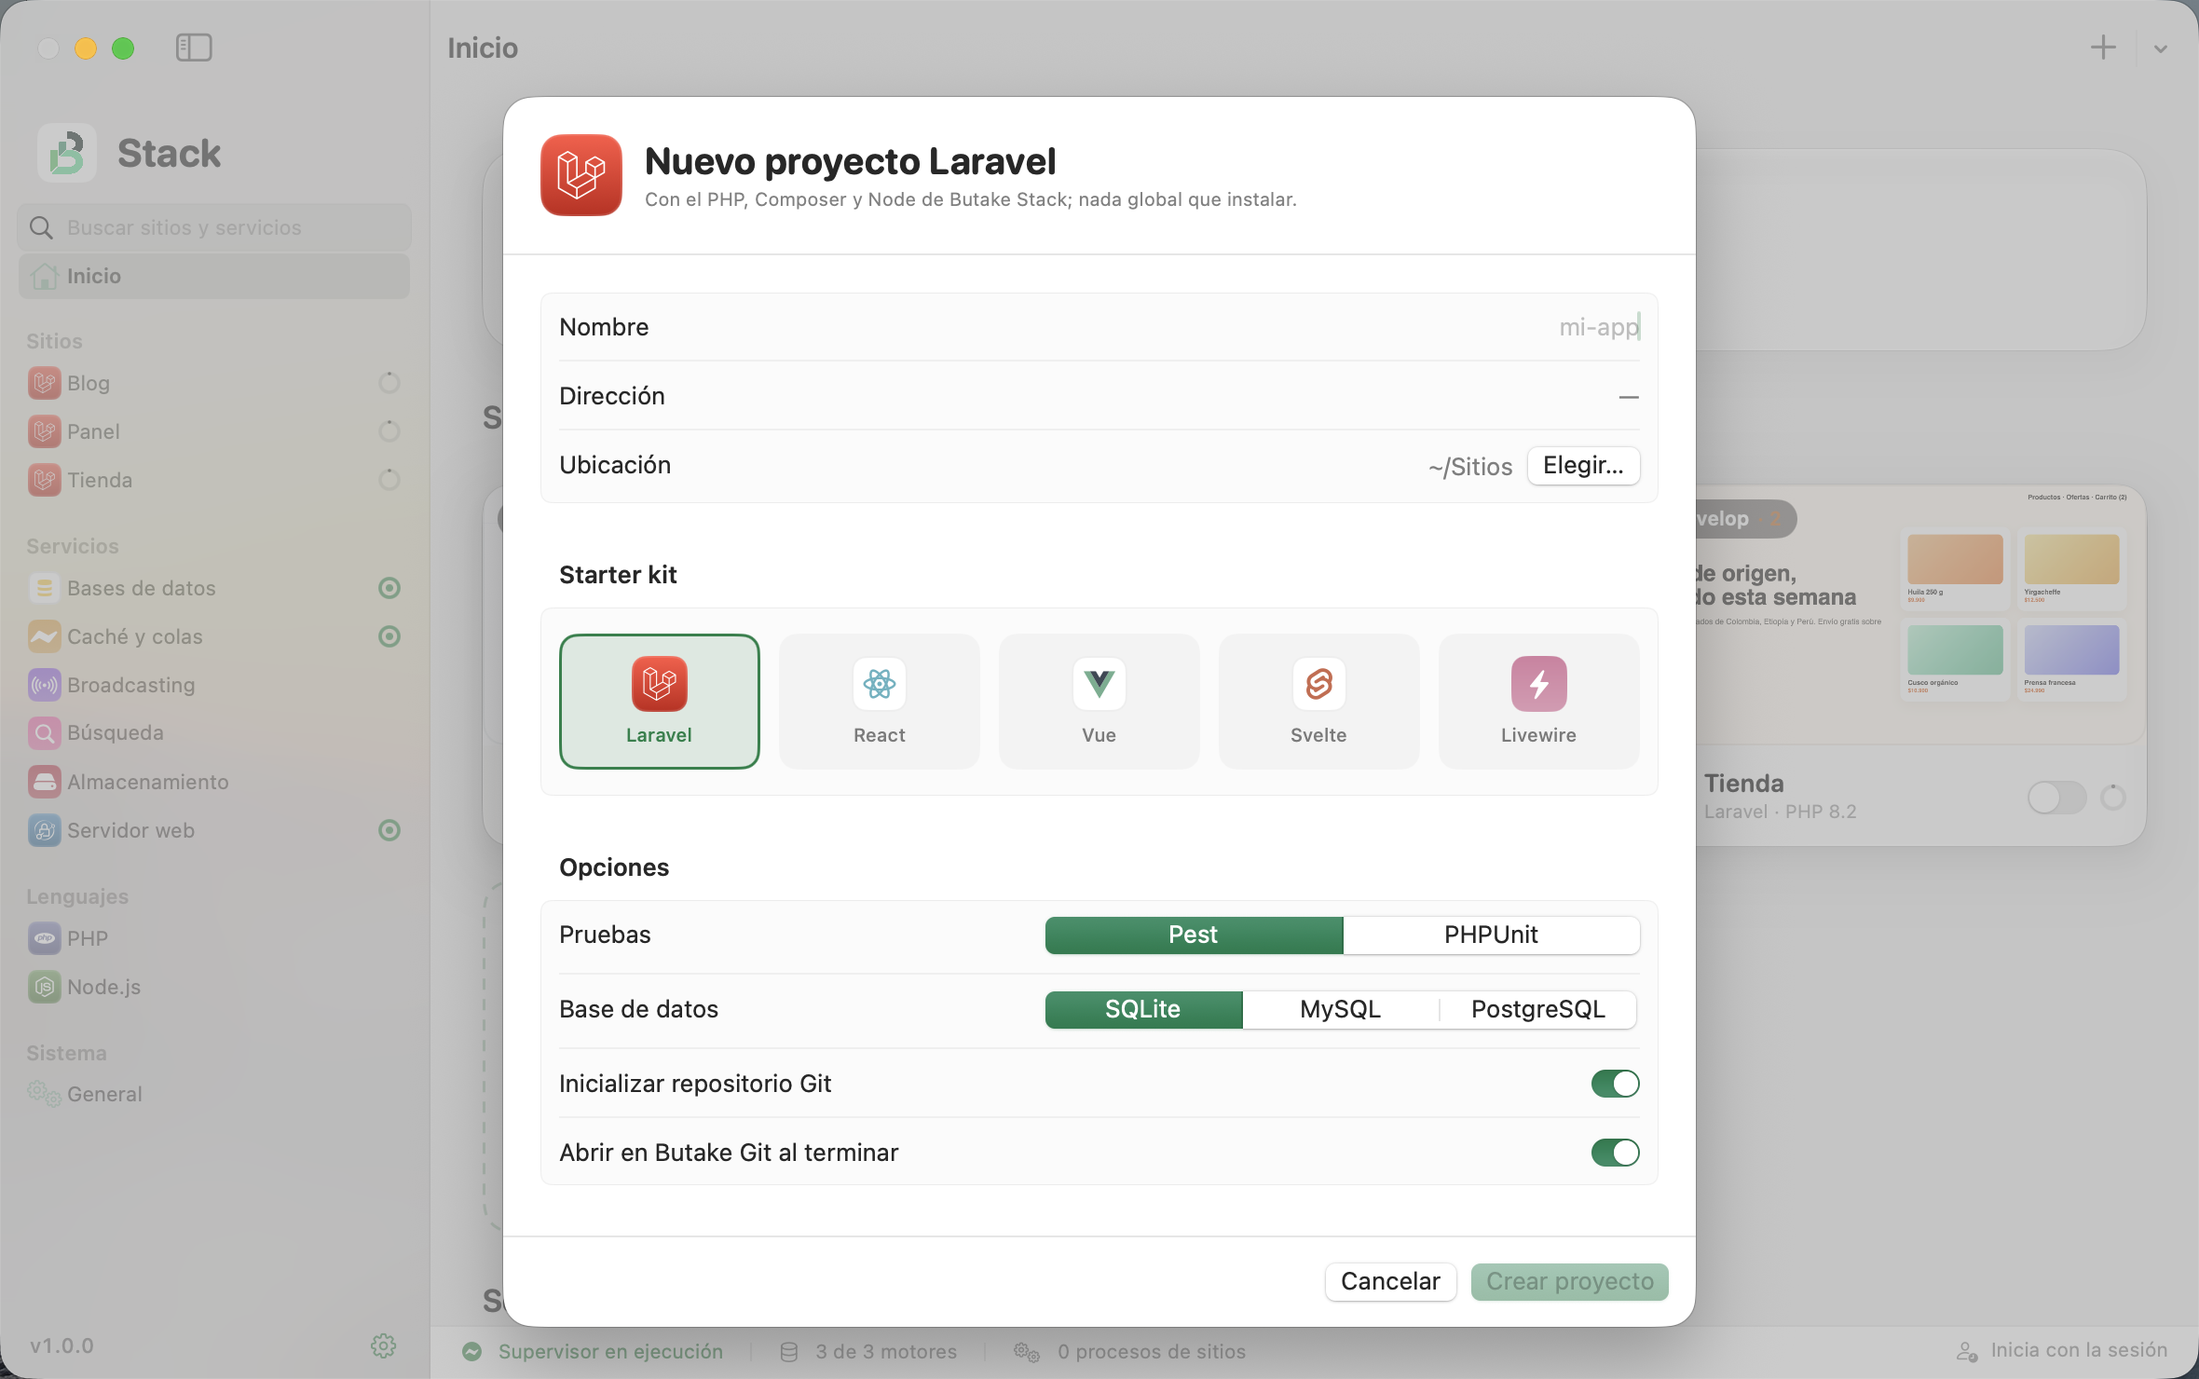
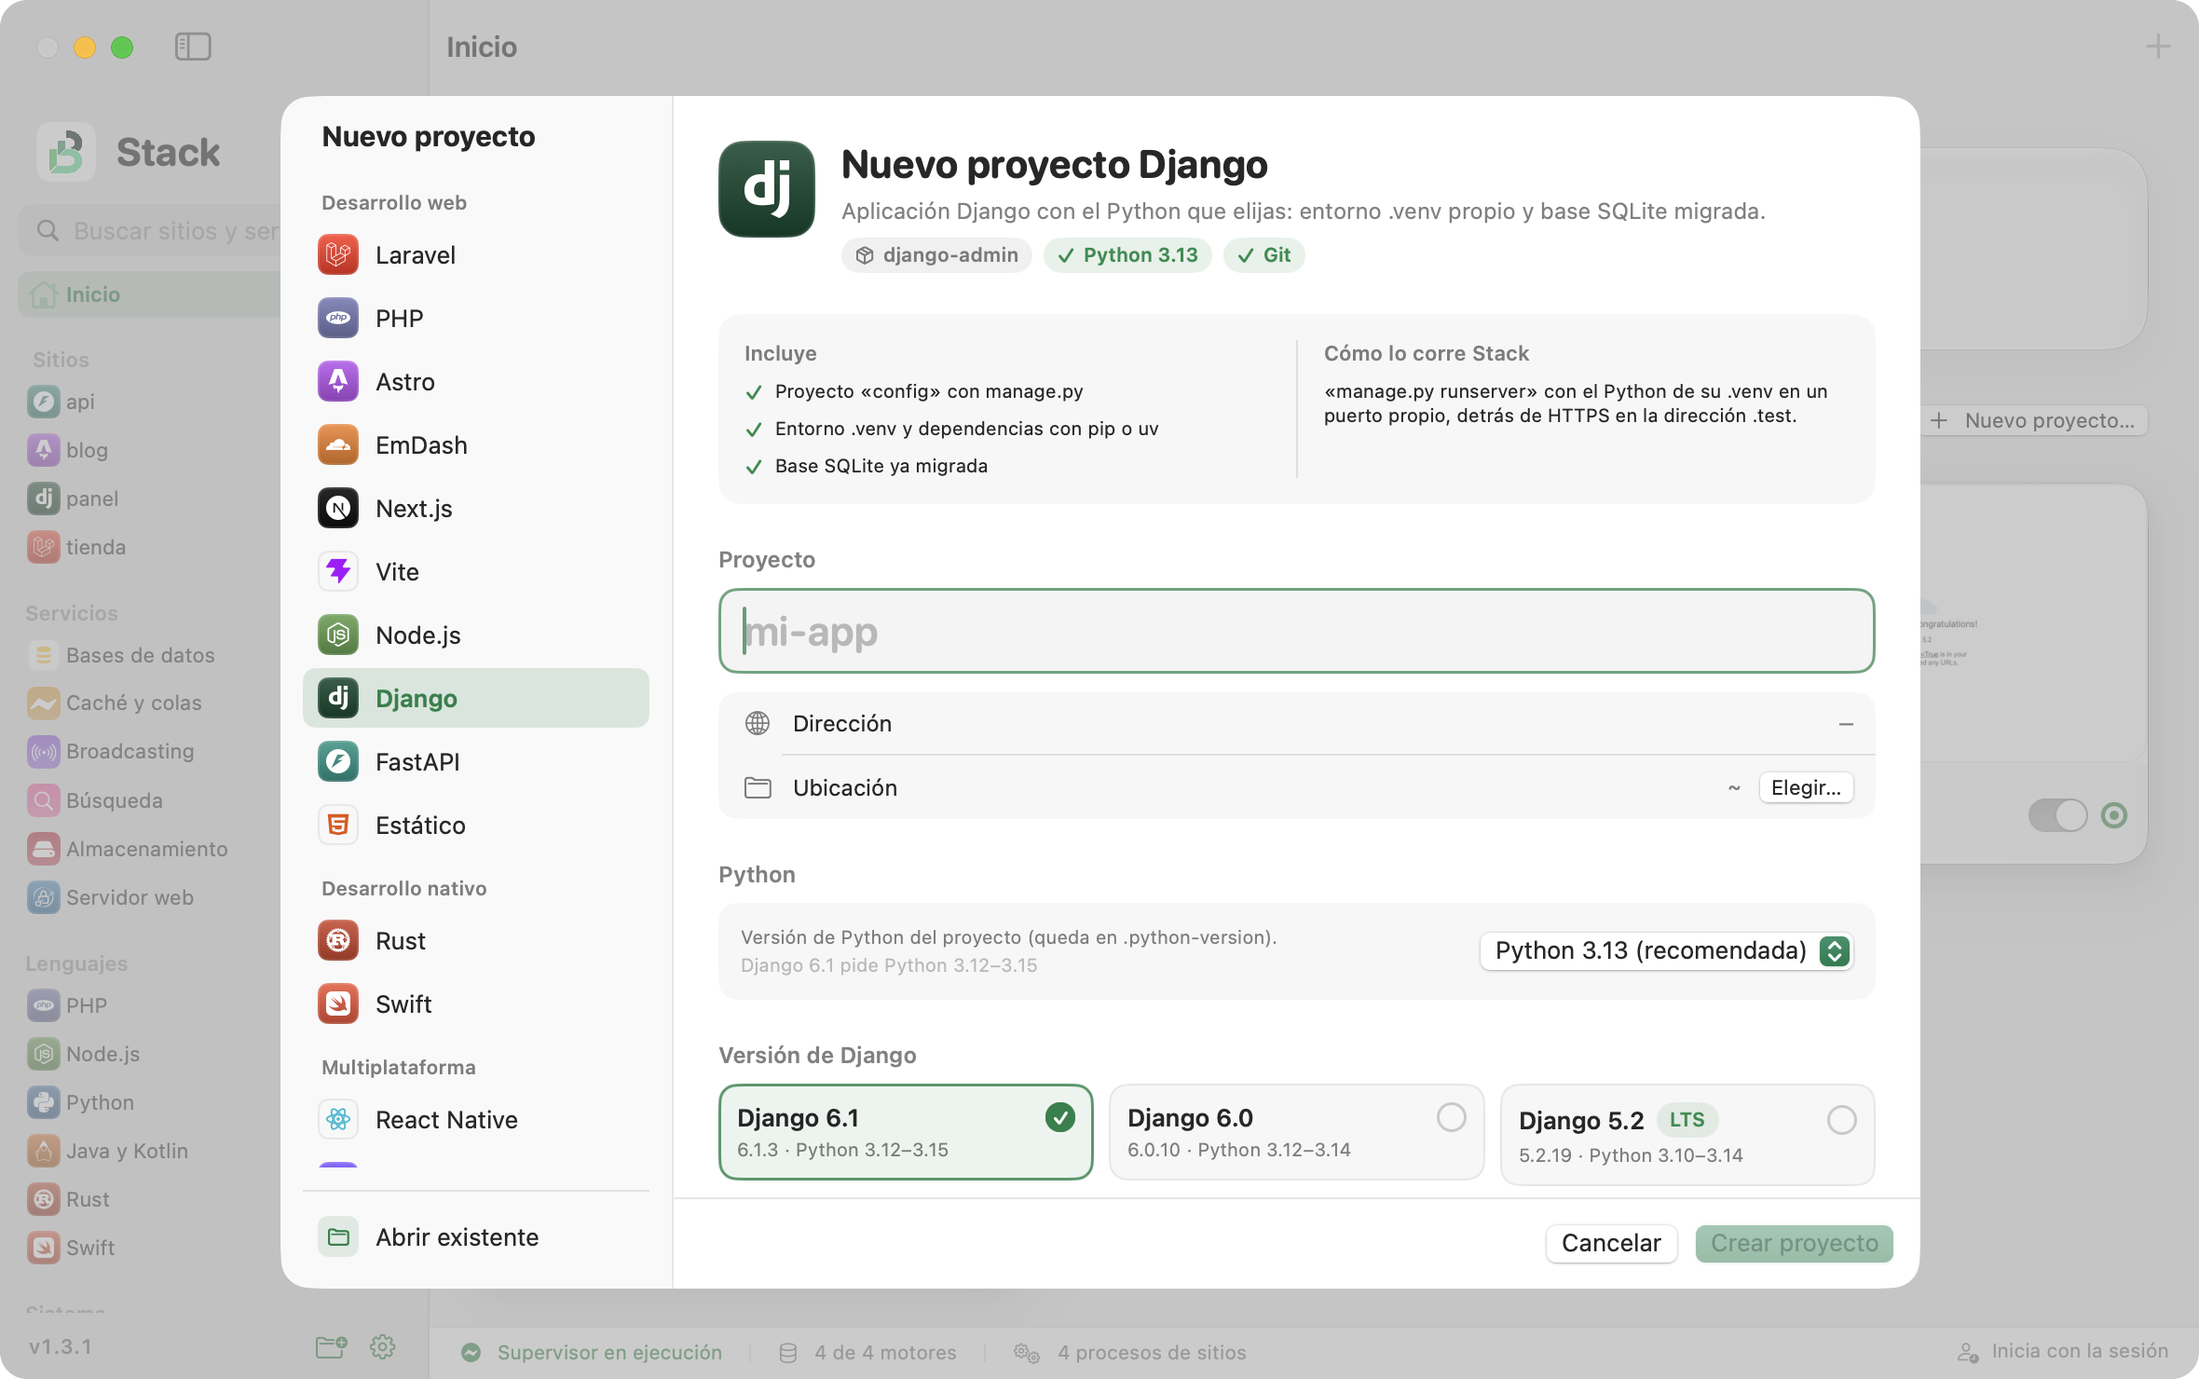
docs(sitio): página con la versión 1.3.1 y capturas nuevas
- Capturas en claro y oscuro de la 1.3.1: inicio, sitio, bases de datos, Python, servidor web, nuevo proyecto, Preparar y bienvenida.
- Textos de lenguajes por proyecto, asistente con versión del framework, perfiles de trabajo y presentación.
- Ganchos de QA para capturas (ruta inicial y vistas previas fijas), sólo en depuración.

diff --git a/site/src/i18n/es.ts b/site/src/i18n/es.ts
@@ -1,15 +1,16 @@
 // Textos de la página. Un solo idioma por ahora; todo texto visible vive aquí.
 export const repo = 'https://github.com/Jose-Currinir/Butake-Stack'
 export const descarga = `${repo}/releases/latest/download/Butake-Stack.dmg`
+export const version = '1.3.1'
 
 export const t = {
   titulo: 'Butake Stack · Desarrollo local nativo para Mac',
-  descripcion: 'Sitios .test con HTTPS y HTTP/3, PHP, Node y motores como MySQL, PostgreSQL y Redis corriendo directo en tu Mac, desde la barra de menús. Sin Homebrew, sin Docker, en español.',
+  descripcion: 'Sitios .test con HTTPS y HTTP/3; PHP, Node, Python, Java, Rust y Swift con varias versiones a la vez; MySQL, PostgreSQL y Redis corriendo directo en tu Mac, desde la barra de menús. Sin Homebrew, sin Docker, en español.',
   nav: { funciones: 'Funciones', seguridad: 'Seguridad', instalar: 'Instalar', github: 'GitHub', descargar: 'Descargar' },
   hero: {
-    etiqueta: 'Gratis y de código abierto · Apache 2.0',
+    etiqueta: 'Versión 1.3.1 · Gratis y de código abierto · Apache 2.0',
     titulo: 'Tu entorno de desarrollo local, nativo y en la barra de menús',
-    texto: 'Sirve tus sitios en .test con HTTPS y HTTP/3, elige la versión de PHP, Node y cada motor, y enciende sólo lo que usas. Sin Homebrew, sin Docker y sin tocar el sistema.',
+    texto: 'Sirve tus sitios en .test con HTTPS y HTTP/3, crea proyectos de cualquier tipo, elige la versión de cada lenguaje por proyecto y enciende sólo lo que usas. Sin Homebrew, sin Docker y sin tocar el sistema.',
     descargar: 'Descargar para Mac',
     github: 'Ver en GitHub',
     requisitos: 'macOS 15 o superior · Mac con Apple Silicon',
@@ -19,16 +20,17 @@ export const t = {
   menu: { abrir: 'Abrir menú', cerrar: 'Cerrar menú' },
   recorrido: {
     titulo: 'Recorre la app',
-    texto: 'Sitios, servicios y versiones, cada cosa en su lugar y a un clic.',
+    texto: 'Sitios, lenguajes, servicios y proyectos nuevos, cada cosa en su lugar y a un clic.',
     pausar: 'Pausar recorrido',
     reanudar: 'Reanudar recorrido',
     pestanas: [
       { id: 'inicio', icono: 'home-5-line', titulo: 'Inicio', texto: 'Tus sitios con su vista previa y su rama, y los servicios encendidos.', imagen: 'inicio.png' },
       { id: 'sitio', icono: 'global-line', titulo: 'Sitio', texto: 'Dirección, carpeta, Git y worktrees; procesos, registros y entorno por sitio.', imagen: 'sitio.png' },
       { id: 'motores', icono: 'database-2-line', titulo: 'Motores', texto: 'Cada motor con su estado, su puerto, los sitios que lo usan y sus versiones.', imagen: 'bases-de-datos.png' },
-      { id: 'versiones', icono: 'stack-line', titulo: 'Versiones', texto: 'Líneas LTS, activas y en mantenimiento; instalas la que eliges.', imagen: 'versiones.png' },
+      { id: 'lenguajes', icono: 'code-s-slash-line', titulo: 'Lenguajes', texto: 'Varias versiones de cada lenguaje, una global y la de cada proyecto, con su ciclo de soporte.', imagen: 'lenguajes.png' },
       { id: 'web', icono: 'server-line', titulo: 'Servidor web', texto: 'Caddy con HTTP/1.1, HTTP/2 y HTTP/3 en los puertos que entrega macOS.', imagen: 'servidor-web.png' },
-      { id: 'nuevo', icono: 'add-box-line', titulo: 'Nuevo proyecto', texto: 'Laravel con starter kit, pruebas, base de datos y Git, sin instalar nada global.', imagen: 'nuevo-proyecto.png' },
+      { id: 'nuevo', icono: 'add-box-line', titulo: 'Nuevo proyecto', texto: 'Laravel, Astro, Next.js, Django, FastAPI, Rust, Swift y más, con la versión del framework compatible.', imagen: 'nuevo-proyecto.png' },
+      { id: 'bienvenida', icono: 'sparkling-line', titulo: 'Bienvenida', texto: 'Al abrirla por primera vez, un recorrido animado que termina preparando tu Mac.', imagen: 'bienvenida.png' },
     ],
   },
   faq: {
@@ -37,9 +39,10 @@ export const t = {
       { p: '¿Es gratis?', r: 'Sí. Butake Stack es de código abierto bajo licencia Apache 2.0. Puedes usarlo, estudiarlo y proponer mejoras.' },
       { p: '¿En qué Mac funciona?', r: 'En Mac con Apple Silicon y macOS 15 o superior.' },
       { p: '¿Es segura de instalar?', r: 'Sí. Está firmada con el certificado Developer ID de Butake SpA y notarizada por Apple, así que macOS la abre sin advertencias. La suma SHA-256 se publica junto a cada versión.' },
-      { p: '¿Necesito Homebrew o Docker?', r: 'No. PHP, Node, Caddy y los motores se descargan de su fuente oficial a la carpeta de Butake Stack y corren directo en el Mac. Nada global, nada en /usr/local.' },
+      { p: '¿Necesito Homebrew o Docker?', r: 'No. PHP, Node, Python, Java, Caddy y los motores se descargan de su fuente oficial a la carpeta de Butake Stack y corren directo en el Mac. Rust, swiftly, gh y Wrangler se instalan en tu carpeta personal con sus instaladores oficiales, verificados. Nada en /usr/local y sin sudo.' },
+      { p: '¿Puedo tener varias versiones de un lenguaje?', r: 'Sí. Instalas las que quieras de PHP, Node, Java y Python, eliges una global y cada proyecto guarda la suya en su archivo estándar: .nvmrc, .java-version, .python-version o rust-toolchain.toml. Rust y Swift usan rustup y swiftly. Si quieres, la versión global queda en la terminal como enlace al binario real.' },
       { p: '¿Pide mi contraseña o cambia /etc?', r: 'No. macOS entrega los puertos 53, 80 y 443 al agente de sesión de Butake Stack; el DNS de .test es interno. Activarlo pide tu confirmación, no tu contraseña.' },
-      { p: '¿Qué pasa al instalarla en un Mac nuevo?', r: 'Se abre «Preparar Butake Stack» con lo que falta: PHP, Caddy y el agente; Node y las herramientas de Apple como recomendados. Eliges cada versión y confirmas antes de descargar.' },
+      { p: '¿Qué pasa al instalarla en un Mac nuevo?', r: 'Te recibe una presentación breve y luego «Preparar Butake Stack»: marcas con qué trabajas (web, nativo, multiplataforma, herramientas) y te muestra sólo lo que eso necesita. Eliges cada versión y confirmas antes de descargar. «Mi entorno» restaura tu configuración de otro Mac, sin secretos.' },
       { p: '¿Cómo se actualiza?', r: 'La app busca versiones nuevas en GitHub y se actualiza sola tras verificar la suma SHA-256, la firma de Butake SpA y la notarización de Apple.' },
       { p: '¿Puedo contribuir?', r: 'Sí: haz un fork y abre un pull request hacia develop. El equipo lo revisa antes de integrarlo. Para cambios grandes, abre antes un issue.' },
     ],
@@ -64,17 +67,22 @@ export const t = {
     ],
   },
   funciones: [
-    { id: 'sitios', icono: 'global-line', etiqueta: 'Sitios', titulo: 'Cada sitio en su .test, encendido cuando lo necesitas', texto: 'Los sitios parten apagados y se encienden con un interruptor: Caddy los sirve con HTTPS y sus procesos (colas, Reverb, Vite) arrancan solos. Vista previa, registros en vivo y entorno por sitio.', puntos: ['HTTPS, HTTP/2 y HTTP/3', 'PHP y Node por sitio', 'Procesos y registros en vivo'], imagen: 'sitio.png', alt: 'Página de un sitio con vista previa, Git y worktrees' },
+    { id: 'sitios', icono: 'global-line', etiqueta: 'Sitios', titulo: 'Cada sitio en su .test, encendido cuando lo necesitas', texto: 'Los sitios parten apagados y se encienden con un interruptor: Caddy los sirve con HTTPS y sus procesos (colas, Reverb, Vite) arrancan solos. Vista previa, registros en vivo y entorno por sitio.', puntos: ['HTTPS, HTTP/2 y HTTP/3', 'La versión de cada lenguaje por sitio', 'Procesos y registros en vivo'], imagen: 'sitio.png', alt: 'Página de un sitio con vista previa, Git y worktrees' },
     { id: 'motores', icono: 'database-2-line', etiqueta: 'Motores', titulo: 'Bases de datos y caché, directo en el Mac', texto: 'MySQL, PostgreSQL, MongoDB, Redis, Valkey, Meilisearch, Typesense y RustFS agrupados por tipo. Cada uno con su puerto, sus datos y los sitios que lo usan; se enciende o apaga con un clic.', puntos: ['Sin Homebrew ni Docker', 'Varias versiones lado a lado', 'Datos existentes importados por clon APFS'], imagen: 'bases-de-datos.png', alt: 'Bases de datos con MySQL en ejecución y PostgreSQL por instalar' },
-    { id: 'versiones', icono: 'stack-line', etiqueta: 'Versiones', titulo: 'Eliges la versión, sabes cuánto dura', texto: 'Las versiones se agrupan por línea con su ciclo de vida: LTS, activa, mantenimiento o sin soporte. Ves lo instalado, actualizas con un clic y las líneas antiguas esperan en «Más versiones».', puntos: ['Ciclo de vida de endoflife.date', 'SHA-256, firma o compilación verificada', 'Nada se descarga sin confirmar'], imagen: 'versiones.png', alt: 'Versiones de Redis con su ciclo de vida' },
+    { id: 'versiones', icono: 'stack-line', etiqueta: 'Lenguajes', titulo: 'Cada proyecto con su versión, y una global', texto: 'PHP, Node, Java y Python con varias versiones a la vez y su ciclo de soporte. Cada proyecto guarda la suya en el archivo estándar del ecosistema y la global puede quedar en la terminal como enlace al binario real. Rust y Swift, con rustup y swiftly.', puntos: ['Python propio, con .venv por proyecto', '.nvmrc, .java-version, .python-version', 'Ciclo de vida de endoflife.date'], imagen: 'lenguajes.png', alt: 'Python con dos versiones instaladas, la global y el catálogo verificado' },
+    { id: 'proyectos', icono: 'add-box-line', etiqueta: 'Proyectos', titulo: 'Un proyecto nuevo, con la versión que corresponde', texto: 'El asistente crea proyectos de Laravel, Astro, Next.js, Vite, EmDash, Django, FastAPI, Rust, Swift y React Native con sus generadores oficiales. Muestra las versiones del framework con soporte y sólo deja elegir las que corren con tu Python o PHP.', puntos: ['Django 5.2 LTS o 6, Laravel 12 o 13', 'pip + venv, o uv', 'Git y su primer commit'], imagen: 'nuevo-proyecto.png', alt: 'Nuevo proyecto Django con la versión del framework según Python' },
     { id: 'git', icono: 'git-branch-line', etiqueta: 'Butake Git', titulo: 'Tu rama, tus cambios y tus worktrees, junto al sitio', texto: 'Cada sitio muestra su rama y sus cambios pendientes. Un worktree se sirve como su propio sitio, <rama>.<sitio>.test, y al cambiar de rama Stack te avisa si hay dependencias o migraciones nuevas.', puntos: ['Abrir en Butake Git con un clic', 'Worktrees como sitios propios', 'composer install, npm install o migrar'], imagen: 'sitio.png', alt: 'Tarjeta Git de un sitio con su worktree' },
-    { id: 'preparar', icono: 'checkbox-multiple-line', etiqueta: 'Preparar', titulo: 'Un Mac nuevo, listo en minutos', texto: 'Al instalar, Butake Stack revisa qué falta y lo pide: PHP, Caddy y el agente de sesión; Node y las herramientas de Apple como recomendados. Eliges cada versión y confirmas antes de descargar.', puntos: ['PHP con Composer y Xdebug', 'Herramientas de Apple sin Xcode completo', 'Se vuelve a abrir desde General'], imagen: 'preparar.png', alt: 'Preparar Butake Stack con los requisitos listos' },
+    { id: 'preparar', icono: 'checkbox-multiple-line', etiqueta: 'Preparar', titulo: 'Un Mac nuevo, listo en minutos', texto: 'Marcas con qué trabajas —web, nativo, multiplataforma o herramientas— y Butake Stack te muestra sólo lo que eso necesita y qué ya tienes. Eliges cada versión y confirmas antes de descargar.', puntos: ['Perfiles de trabajo', 'rustup, swiftly, gh, Wrangler y SDK de Android verificados', 'Exportar y restaurar «Mi entorno»'], imagen: 'preparar.png', alt: 'Preparar Butake Stack con los requisitos listos' },
   ],
   funcionaCon: {
     titulo: 'Corre directo en tu Mac',
     items: [
       { icono: 'code-s-slash-line', texto: 'PHP' },
       { icono: 'javascript-line', texto: 'Node.js' },
+      { icono: 'terminal-box-line', texto: 'Python' },
+      { icono: 'cup-line', texto: 'Java' },
+      { icono: 'settings-5-line', texto: 'Rust' },
+      { icono: 'apple-line', texto: 'Swift' },
       { icono: 'server-line', texto: 'Caddy' },
       { icono: 'database-2-line', texto: 'MySQL' },
       { icono: 'database-line', texto: 'PostgreSQL' },
@@ -92,9 +100,9 @@ export const t = {
     lista: [
       { icono: 'global-line', titulo: 'Sitios', ancla: '#sitios', items: ['Dominios .test con HTTPS', 'Encendido manual', 'Vista previa', 'Procesos y registros'] },
       { icono: 'database-2-line', titulo: 'Motores', ancla: '#motores', items: ['Bases de datos y caché', 'Búsqueda y almacenamiento', 'Puerto y datos propios', 'Varias versiones'] },
-      { icono: 'stack-line', titulo: 'Versiones', ancla: '#versiones', items: ['LTS y mantenimiento', 'Actualizar con un clic', 'Fuente oficial', 'Verificación'] },
+      { icono: 'stack-line', titulo: 'Lenguajes', ancla: '#versiones', items: ['Versión por proyecto', 'Global y en la terminal', 'LTS y mantenimiento', 'Fuente oficial verificada'] },
       { icono: 'git-branch-line', titulo: 'Git', ancla: '#git', items: ['Rama y cambios', 'Worktrees como sitios', 'Aviso al cambiar de rama', 'Abrir en Butake Git'] },
-      { icono: 'add-box-line', titulo: 'Proyectos', ancla: '#instalar', items: ['Laravel con starter kit', 'Pest o PHPUnit', 'SQLite, MySQL o PostgreSQL', 'Arrastrar una carpeta'] },
+      { icono: 'add-box-line', titulo: 'Proyectos', ancla: '#proyectos', items: ['Web, nativo y multiplataforma', 'Versión del framework compatible', 'Importar una carpeta de proyectos', 'Carpetas de sitios'] },
       { icono: 'checkbox-multiple-line', titulo: 'Preparar', ancla: '#preparar', items: ['Requisitos detectados', 'Versión a elegir', 'Confirmación previa', 'Actualizaciones verificadas'] },
     ],
   },

diff --git a/native/Sources/ButakeStack/ButakeStackApp.swift b/native/Sources/ButakeStack/ButakeStackApp.swift
@@ -33,6 +33,21 @@ final class AppDelegate: NSObject, NSApplicationDelegate {
             if StackStore.qaWindow, let language = ProcessInfo.processInfo.environment["BUTAKE_QA_LANGUAGE"] {
                 Task { try? await Task.sleep(for: .seconds(1)); StackStore.shared.route = .language(language) }
             }
+            // Screenshots: "site:<id>", "service:<name>", "language:<name>" or "general".
+            if StackStore.qaWindow, let target = ProcessInfo.processInfo.environment["BUTAKE_QA_ROUTE"] {
+                Task {
+                    try? await Task.sleep(for: .seconds(1.5))
+                    let parts = target.split(separator: ":", maxSplits: 1).map(String.init)
+                    let value = parts.count > 1 ? parts[1] : ""
+                    switch parts[0] {
+                    case "site": StackStore.shared.openSite(value)
+                    case "service": StackStore.shared.route = .service(value)
+                    case "language": StackStore.shared.route = .language(value)
+                    case "general": StackStore.shared.route = .general
+                    default: break
+                    }
+                }
+            }
             if StackStore.qaWindow, let folder = ProcessInfo.processInfo.environment["BUTAKE_QA_OPEN_FOLDER"] {
                 Task { try? await Task.sleep(for: .seconds(2)); await StackStore.shared.openFolder(folder, scan: true) }
             }

diff --git a/native/Sources/ButakeStack/Models/SitePreviews.swift b/native/Sources/ButakeStack/Models/SitePreviews.swift
@@ -41,6 +41,8 @@ import WebKit
         for project in projects where images[project.id] == nil {
             images[project.id] = NSImage(contentsOf: folder.appendingPathComponent("\(project.id).png"))
         }
+        // Screenshots of a separate data folder keep the captures prepared for them.
+        if StackStore.qaWindow && ProcessInfo.processInfo.environment["BUTAKE_QA_KEEP_PREVIEWS"] != nil { return }
         for project in projects where project.enabled && !refreshed.contains(project.id) { refresh(project) }
     }
 
